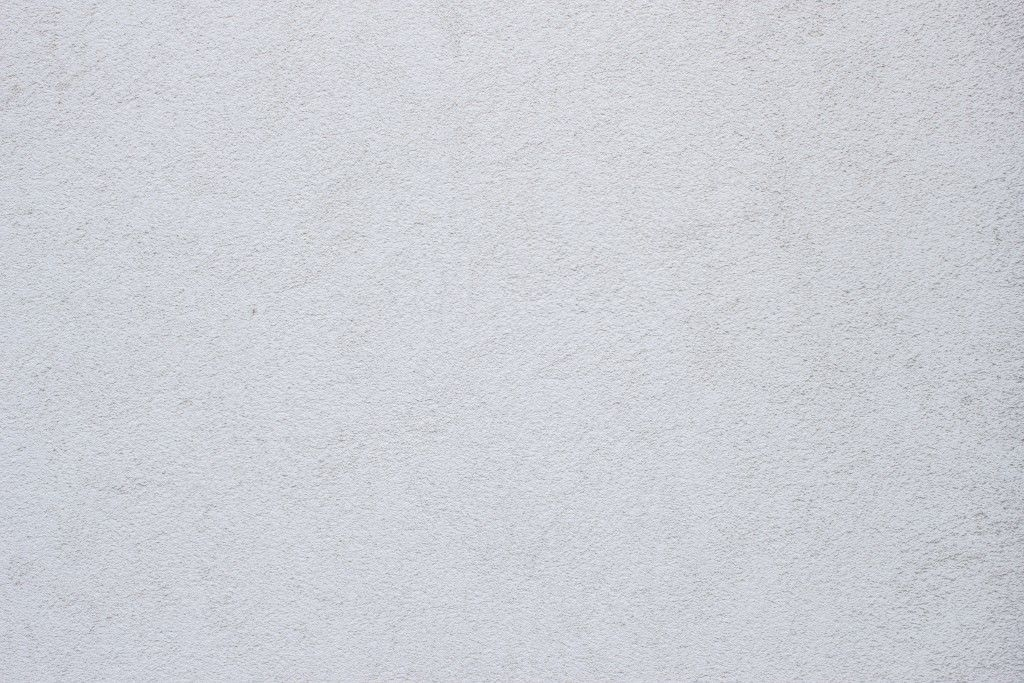
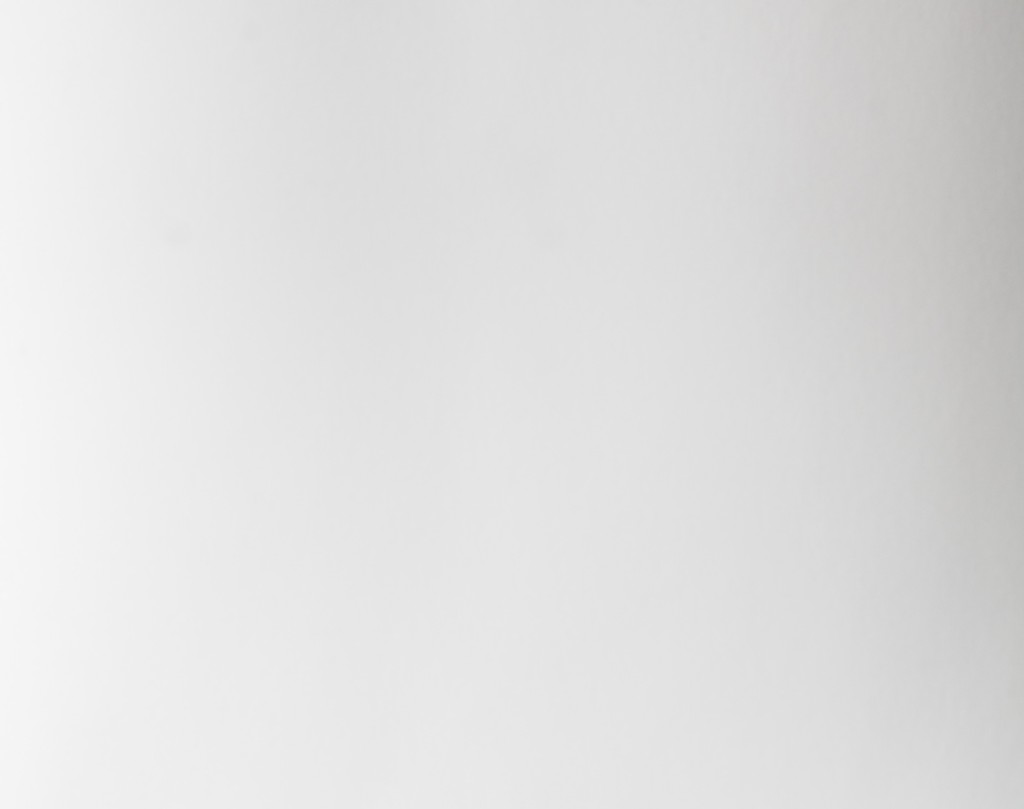
.

diff --git a/public/javascripts/usrStudyVidList.js b/public/javascripts/usrStudyVidList.js
@@ -1,0 +1,33 @@
+//get parameters from query string
+let url = location.search.substring(1);
+let urlParams = new URLSearchParams(url);
+let userId = urlParams.get('userId');
+let targetUrl = '/userStudy/users?userId=' + userId;
+console.log('target URL:' +  targetUrl);
+
+
+$(document).ready(function () {
+    getDateTime();
+    fetchVideo();
+});
+
+
+function getDateTime(){
+    let date = new Date(Date.now()).toLocaleString();
+    //document.getElementById('date').innerHTML = date;
+    console.log(date);
+}
+
+function fetchVideo() {
+    $.get(targetUrl, function (rows) {
+        console.log({rows});
+        let videos = '';
+        for (let i = 0; i < rows.length; i++) {
+            let val = rows[i].ai_support===true ? 'With AI support' : 'Start from scratch';
+            videos +=  `<b><a href="/playvideo/${rows[i].video_id}" class="list-group-item" ><img class="vid-thumbnail" src="https://i1.ytimg.com/vi/${rows[i].video_id}/hqdefault.jpg">Video ${i+1}: ${rows[i].title} (${val})</a></b>`
+            // videos +=  ` <a href="/playvideo/${rows[i].youtube_id}" class="list-group-item" >Participant ${rows[i].user_id} ----  ${rows[i].youtube_id}----AI support: ${rows[i].ai_support}</a>`
+        }
+        videos += `<br><b><a href="https://docs.google.com/forms/d/e/1FAIpQLSfQO6z0lrsHfgj5iR797uHUM-b6gXVz0BfTQT3Oj2HY9tYd1g/viewform?entry.2005620554=${rows[0].name} - ${rows[0].user_id}" class="list-group-item" ><img src="../images/survey.png" class="img-survey">User Survey for ${rows[0].name}</a></b>`;  
+        $( ".list-group" ).append( videos);
+    });
+}

diff --git a/routes/index.js b/routes/index.js
@@ -109,7 +109,7 @@ router.get('/userStudy/users/', function (req, res) {
   let userId = req.query.userId;
   if(userId){
      //let queryResult = userStudy.getVideoByUserId(userId);
-     let queryResult = db.query(`SELECT u.user_id, u.video_id, v.title, u.ai_support FROM us_user_video u JOIN video v ON u.video_id = v.youtube_id WHERE u.user_id = $1`,[userId]);
+     let queryResult = db.query(`SELECT u.user_id, u.video_id, v.title, u.ai_support, usr.name FROM us_user_video u JOIN video v ON u.video_id = v.youtube_id JOIN us_user usr ON usr.uuid = u.user_id WHERE u.user_id = $1`,[userId]);
       queryResult
         .then(result => {
           res.send(result);

diff --git a/public/stylesheets/vidUserStudy.css b/public/stylesheets/vidUserStudy.css
@@ -1,0 +1,34 @@
+.vid-thumbnail {
+    height: 50px;
+    width: 75px;
+    margin-right: 16px;
+}
+
+a {
+    color: black;
+}
+
+.img-survey {
+    height: 30px;
+    width: 30px;
+    margin-right: 16px;
+}
+
+.list-group-item {
+    background-color: white;
+}
+
+.img-header {
+    float: left;
+    height: 30px;
+    
+}
+
+.img-footer {
+    height: 20px;
+    position: absolute;
+    bottom: 0;
+    left: 0;
+    right: 0;
+    margin: auto;
+}
